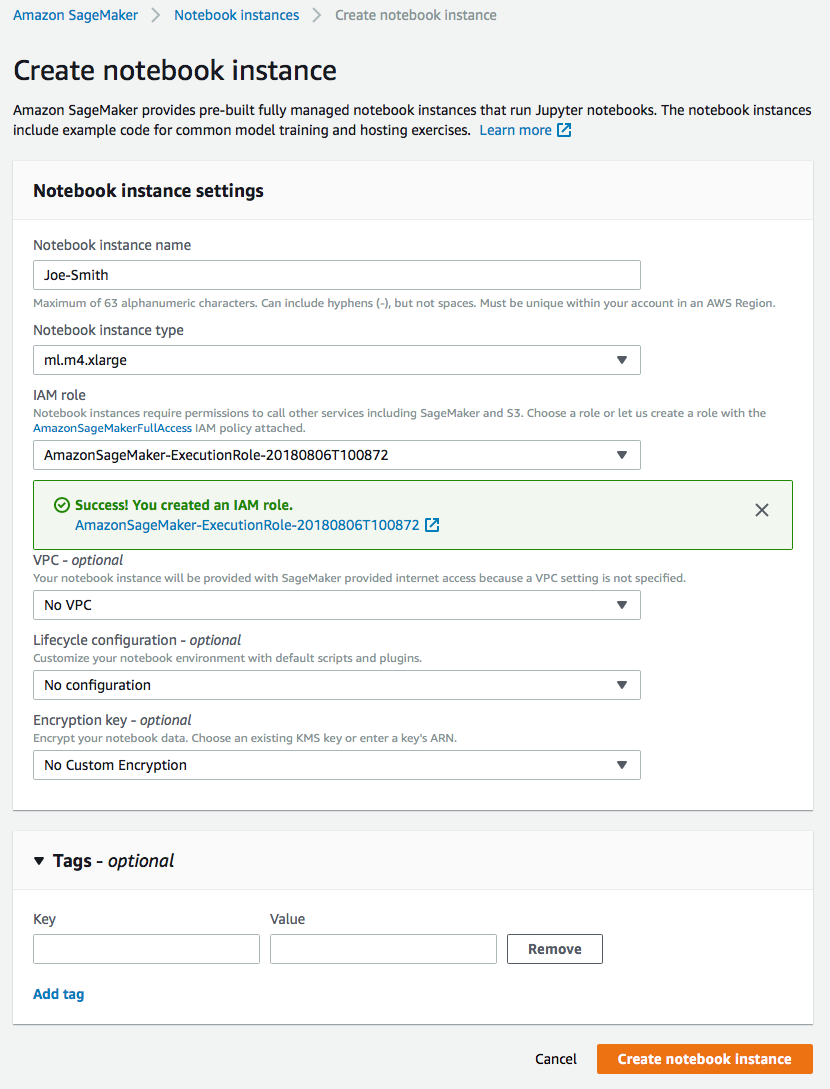
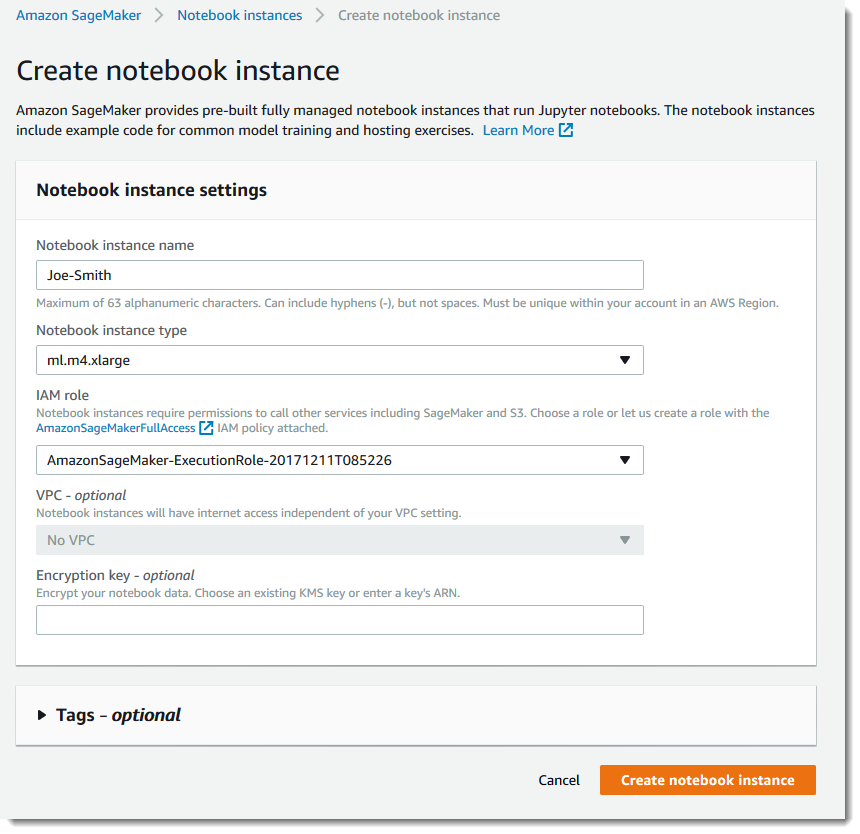
Updated README

diff --git a/README.md b/README.md
@@ -66,7 +66,7 @@ Use the console or AWS CLI to create an Amazon S3 bucket. Keep in mind that your
 
 ### 2. Launching the Notebook Instance
 
-1. In the upper-right corner of the AWS Management Console, confirm you are in the desired AWS region. Select N. Virginia, Oregon, Ohio, or Ireland.
+1. In the upper-right corner of the AWS Management Console, confirm you are in the **US West (Oregon)** Region.
 
 2. Click on Amazon SageMaker from the list of all services.  This will bring you to the Amazon SageMaker console homepage.
 
@@ -78,9 +78,13 @@ Use the console or AWS CLI to create an Amazon S3 bucket. Keep in mind that your
 
 4. Type [First Name]-[Last Name]-workshop into the **Notebook instance name** text box, and select *ml.m4.xlarge* for the **Notebook instance type**.
 
-5. For IAM role, choose **Create a new role** and specify **Any S3 Bucket**, then select **Create Role**.
+5. For IAM role, choose Select an existing role and choose one named `AmazonSageMaker-ExecutionRole-XXXX`.
 
-![Create Role](./images/create-role.png)
+	<p>
+	<div class="alert alert-danger">
+	  <strong>Note!</strong> Make sure to use the IAM Role provided by the instructor.
+	</div>
+	</p>
 
 6. Ensure that the new role has been created.
 
